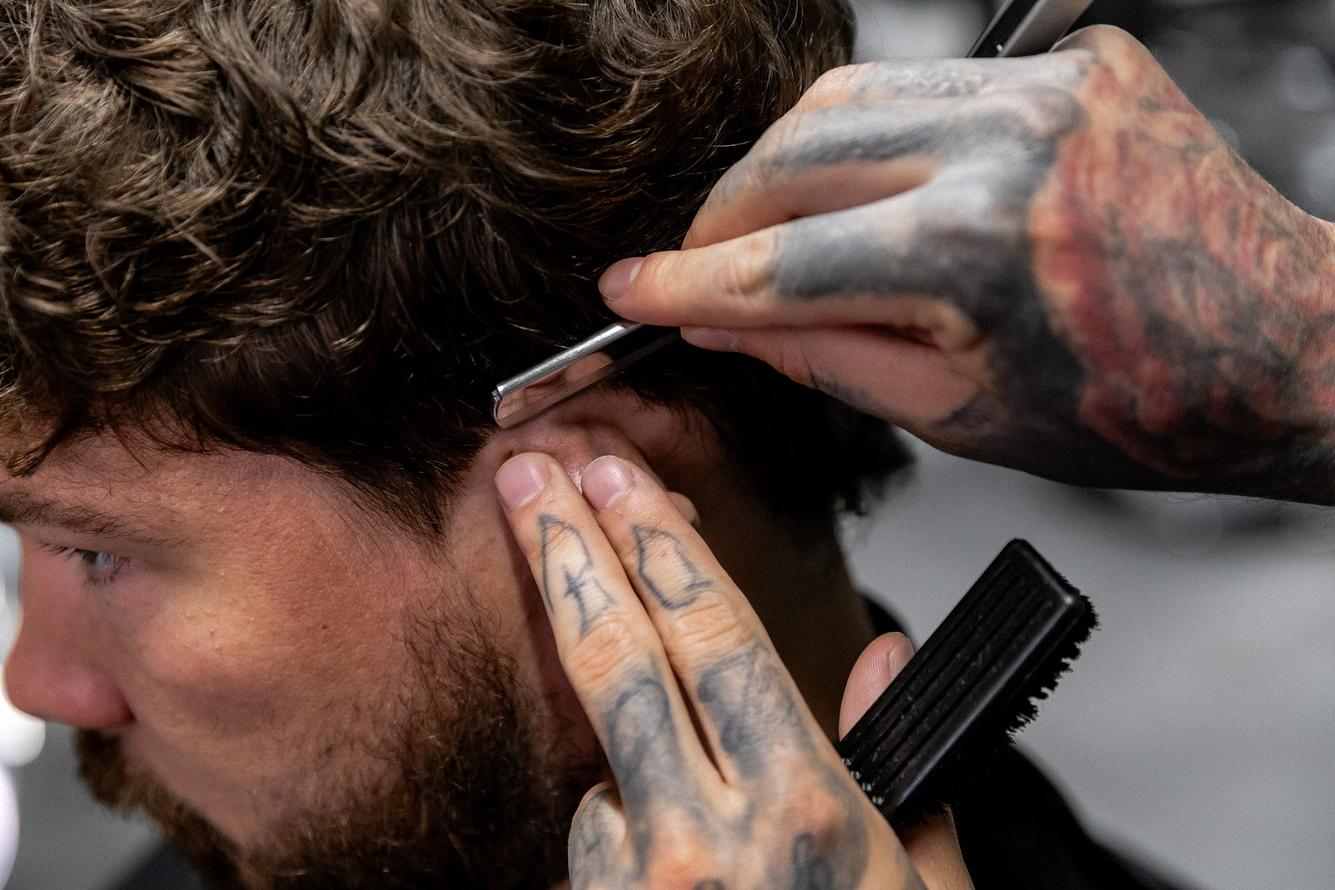
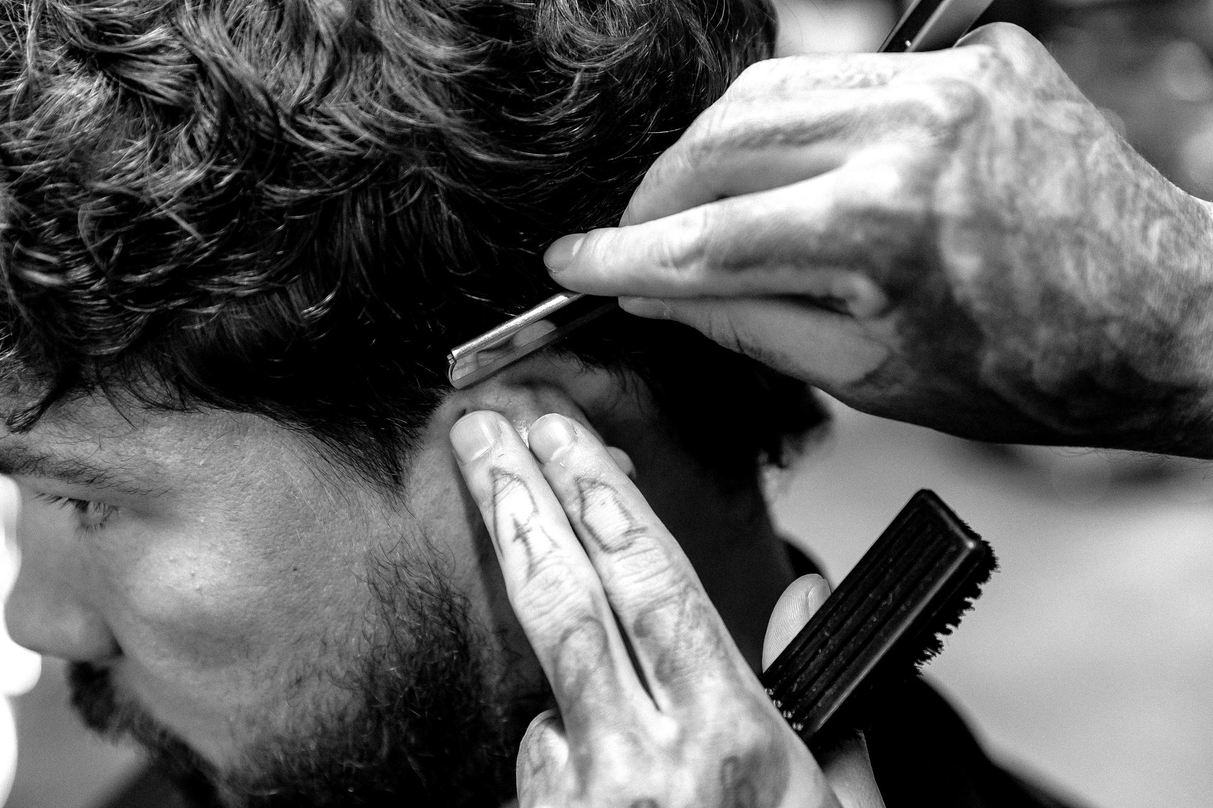
Add monochrome interior gallery

diff --git a/index.html b/index.html
@@ -70,6 +70,136 @@
                 background: #eb1616;
                 color: #fff;
             }
+            .client-about-media {
+                display: grid;
+                grid-template-columns: minmax(0, 3fr) minmax(0, 2fr);
+                gap: 20px;
+                max-height: none;
+                overflow: visible;
+            }
+            .client-about-media_item {
+                position: relative;
+                min-height: 480px;
+                margin: 0;
+                overflow: hidden;
+                background: #151515;
+            }
+            .client-about-media_item img {
+                width: 100%;
+                height: 100%;
+                object-fit: cover;
+                filter: grayscale(1);
+                transition: transform 0.6s ease;
+            }
+            .client-about-media_item:hover img {
+                transform: scale(1.025);
+            }
+            .client-about-media_item figcaption {
+                position: absolute;
+                right: 18px;
+                bottom: 18px;
+                padding: 8px 12px;
+                background: #eb1616;
+                color: #fff;
+                font-family: Oswald, sans-serif;
+                font-size: 13px;
+                font-weight: 500;
+                letter-spacing: 0.08em;
+                text-transform: uppercase;
+            }
+            .client-gallery {
+                padding-top: 10px;
+            }
+            .client-gallery .gallery_header {
+                margin-bottom: 36px;
+            }
+            .client-gallery .gallery_list {
+                display: grid;
+                grid-template-columns: repeat(12, minmax(0, 1fr));
+                grid-auto-rows: 175px;
+                gap: 18px;
+                margin: 0;
+                padding: 0 1.25rem;
+            }
+            .client-gallery .gallery_list-item {
+                display: block;
+                height: 100%;
+                margin: 0;
+                padding: 0;
+                overflow: hidden;
+                background: #151515;
+            }
+            .client-gallery .gallery_list-item::before,
+            .client-gallery .gallery_list-item::after {
+                display: none;
+            }
+            .client-gallery .gallery_list-item:nth-child(1) {
+                grid-column: span 7;
+                grid-row: span 2;
+            }
+            .client-gallery .gallery_list-item:nth-child(2) {
+                grid-column: span 5;
+                grid-row: span 2;
+            }
+            .client-gallery .gallery_list-item:nth-child(3),
+            .client-gallery .gallery_list-item:nth-child(4),
+            .client-gallery .gallery_list-item:nth-child(5) {
+                grid-column: span 4;
+                grid-row: span 2;
+            }
+            .client-gallery .gallery_list-item:nth-child(6) {
+                grid-column: span 12;
+                grid-row: span 2;
+            }
+            .client-gallery .gallery_list-item_img {
+                width: 100%;
+                height: 100%;
+                object-fit: cover;
+                filter: grayscale(1);
+                transition: transform 0.55s ease;
+            }
+            .client-gallery .gallery_list-item_img:hover {
+                filter: grayscale(1);
+                transform: scale(1.035);
+            }
+            @media screen and (max-width: 767.97px) {
+                .client-about-media {
+                    grid-template-columns: 1fr;
+                    gap: 14px;
+                }
+                .client-about-media_item {
+                    min-height: 0;
+                    aspect-ratio: 4 / 3;
+                }
+                .client-gallery .gallery_header {
+                    padding: 0 1.25rem;
+                    text-align: left;
+                }
+                .client-gallery .gallery_list {
+                    display: block;
+                }
+                .client-gallery .gallery_list-item,
+                .client-gallery .gallery_list-item:nth-child(n) {
+                    aspect-ratio: 4 / 3;
+                    margin-bottom: 14px;
+                }
+                .client-gallery .gallery_list-item:last-child {
+                    aspect-ratio: 3 / 2;
+                    margin-bottom: 0;
+                }
+            }
+            @media screen and (min-width: 767.98px) {
+                .client-gallery .gallery_list {
+                    padding: 0 1.875rem;
+                }
+            }
+            @media screen and (min-width: 1199.98px) {
+                .client-gallery .gallery_list {
+                    max-width: 1170px;
+                    margin: 0 auto;
+                    padding: 0;
+                }
+            }
         </style>
     </head>
     <body>
@@ -116,8 +246,8 @@
                     <div class="hero_slider-wrapper swiper-wrapper">
                         <div class="hero_slider-slide swiper-slide" data-bg="img/client-hero-service.jpg"></div>
                         <div class="hero_slider-slide swiper-slide" data-bg="img/client-hero-detail.jpg"></div>
-                        <!-- <div class="hero_slider-slide swiper-slide" data-bg="img/IMG_3.jpg"></div> -->
-                        <!-- <div class="hero_slider-slide swiper-slide" data-bg="img/IMG_4.jpg"></div> -->
+                        <div class="hero_slider-slide swiper-slide" data-bg="img/client-hero-lounge.jpg"></div>
+                        <div class="hero_slider-slide swiper-slide" data-bg="img/client-hero-interior.jpg"></div>
                     </div>
                     <div class="hero_slider-pagination swiper-pagination"></div>
                     <div class="hero_slider-controls d-none d-md-flex justify-content-between">
@@ -175,11 +305,15 @@
                             </p>
                         </div>
                     </div>
-                    <div class="about_media col-12" data-aos="zoom-in" data-aos-delay="300" data-aos-duration="700">
-                        <picture>
-                            <source data-srcset="img/client-workspace.jpg" srcset="img/client-workspace.jpg" type="image/jpeg" />
-                            <img class="lazy about_media-img" data-src="img/client-workspace.jpg" src="img/client-workspace.jpg" alt="Barbers Hub workspace" data-i18n-alt="main_about_image_alt" />
-                        </picture>
+                    <div class="about_media client-about-media col-12" data-aos="zoom-in" data-aos-delay="300" data-aos-duration="700">
+                        <figure class="client-about-media_item">
+                            <img loading="lazy" src="img/client-about-floor.jpg" alt="Barbers Hub barber floor" data-i18n-alt="gallery_floor_alt" />
+                            <figcaption data-i18n="about_media_floor">Barber floor</figcaption>
+                        </figure>
+                        <figure class="client-about-media_item">
+                            <img loading="lazy" src="img/client-about-lounge.jpg" alt="Barbers Hub lounge" data-i18n-alt="gallery_lounge_alt" />
+                            <figcaption data-i18n="about_media_lounge">Lounge</figcaption>
+                        </figure>
                     </div>
                     <div class="about_text d-md-flex justify-content-between">
                         <p class="about_text-block text" data-i18n="about_text1">
@@ -193,12 +327,42 @@
                 </div>
             </section>
 
-            <!-- <section class="gallery">
-                <div class="container-fluid p-0">
-                    <div class="container">
+            <section class="gallery client-gallery section section--nopt" aria-labelledby="gallery-title">
+                <div class="container">
+                    <div class="gallery_header section_header">
+                        <h2 id="gallery-title" class="gallery_header-title section_header-title" data-aos="fade-right" data-i18n="gallery_title">
+                            A closer look at BARBERS HUB.
+                        </h2>
+                        <span
+                            class="gallery_header-subtitle section_header-subtitle"
+                            data-aos="fade-right"
+                            data-aos-delay="50"
+                            data-i18n="gallery_subtitle"
+                            >The space</span
+                        >
                     </div>
                 </div>
-            </section> -->
+                <div class="gallery_list">
+                    <a class="gallery_list-item" href="img/client-gallery-lounge.jpg">
+                        <img class="gallery_list-item_img" loading="lazy" src="img/client-gallery-lounge.jpg" alt="Barbers Hub lounge with sofas and large windows" data-i18n-alt="gallery_lounge_alt" />
+                    </a>
+                    <a class="gallery_list-item" href="img/client-gallery-floor.jpg">
+                        <img class="gallery_list-item_img" loading="lazy" src="img/client-gallery-floor.jpg" alt="Barbers Hub main barber floor" data-i18n-alt="gallery_floor_alt" />
+                    </a>
+                    <a class="gallery_list-item" href="img/client-gallery-station.jpg">
+                        <img class="gallery_list-item_img" loading="lazy" src="img/client-gallery-station.jpg" alt="Barber station and mirrors" data-i18n-alt="gallery_station_alt" />
+                    </a>
+                    <a class="gallery_list-item" href="img/client-gallery-waiting.jpg">
+                        <img class="gallery_list-item_img" loading="lazy" src="img/client-gallery-waiting.jpg" alt="Waiting area and interior art" data-i18n-alt="gallery_waiting_alt" />
+                    </a>
+                    <a class="gallery_list-item" href="img/client-gallery-wash.jpg">
+                        <img class="gallery_list-item_img" loading="lazy" src="img/client-gallery-wash.jpg" alt="Hair washing and laundry area" data-i18n-alt="gallery_wash_alt" />
+                    </a>
+                    <a class="gallery_list-item" href="img/client-gallery-art.jpg">
+                        <img class="gallery_list-item_img" loading="lazy" src="img/client-gallery-art.jpg" alt="Barbers Hub art wall" data-i18n-alt="gallery_art_alt" />
+                    </a>
+                </div>
+            </section>
 
             <section id="contacts" class="contacts section section--nopt">
                 <div class="container">
